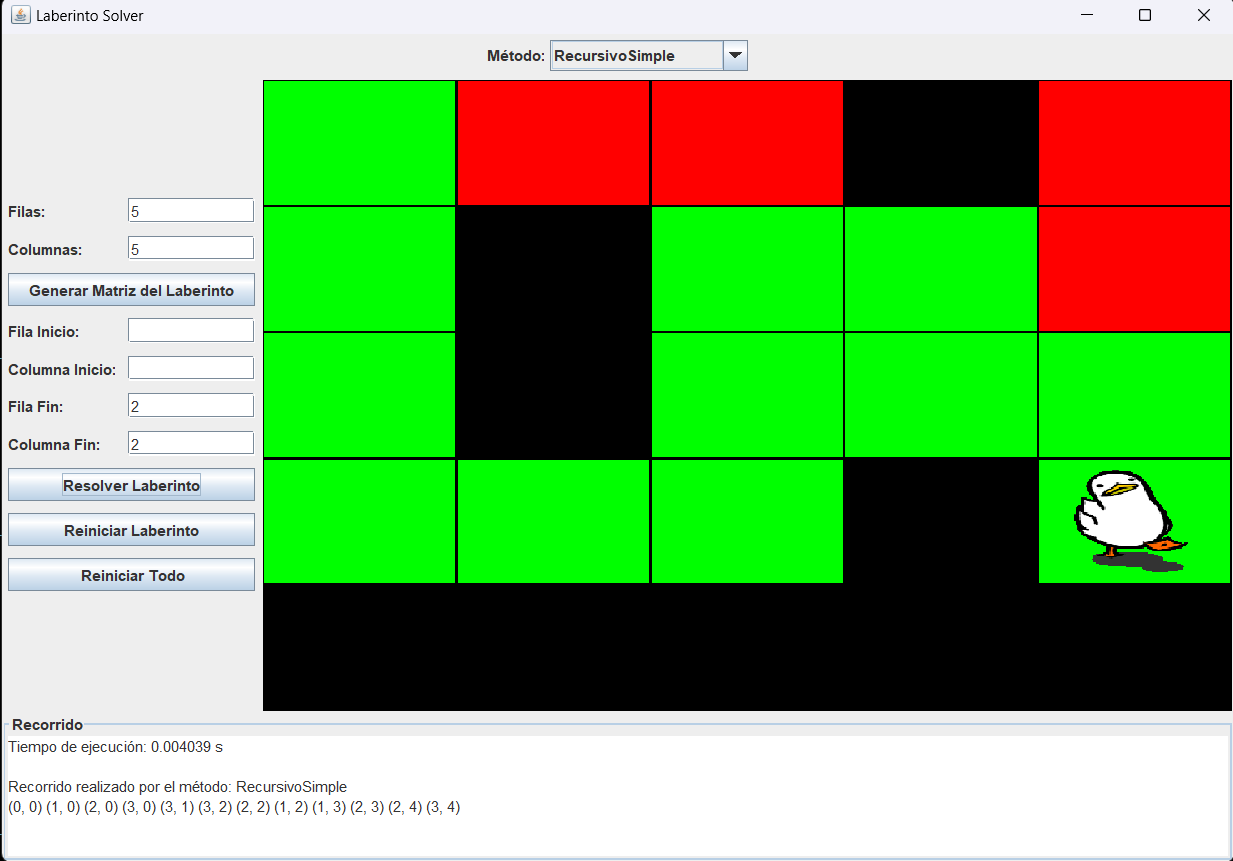
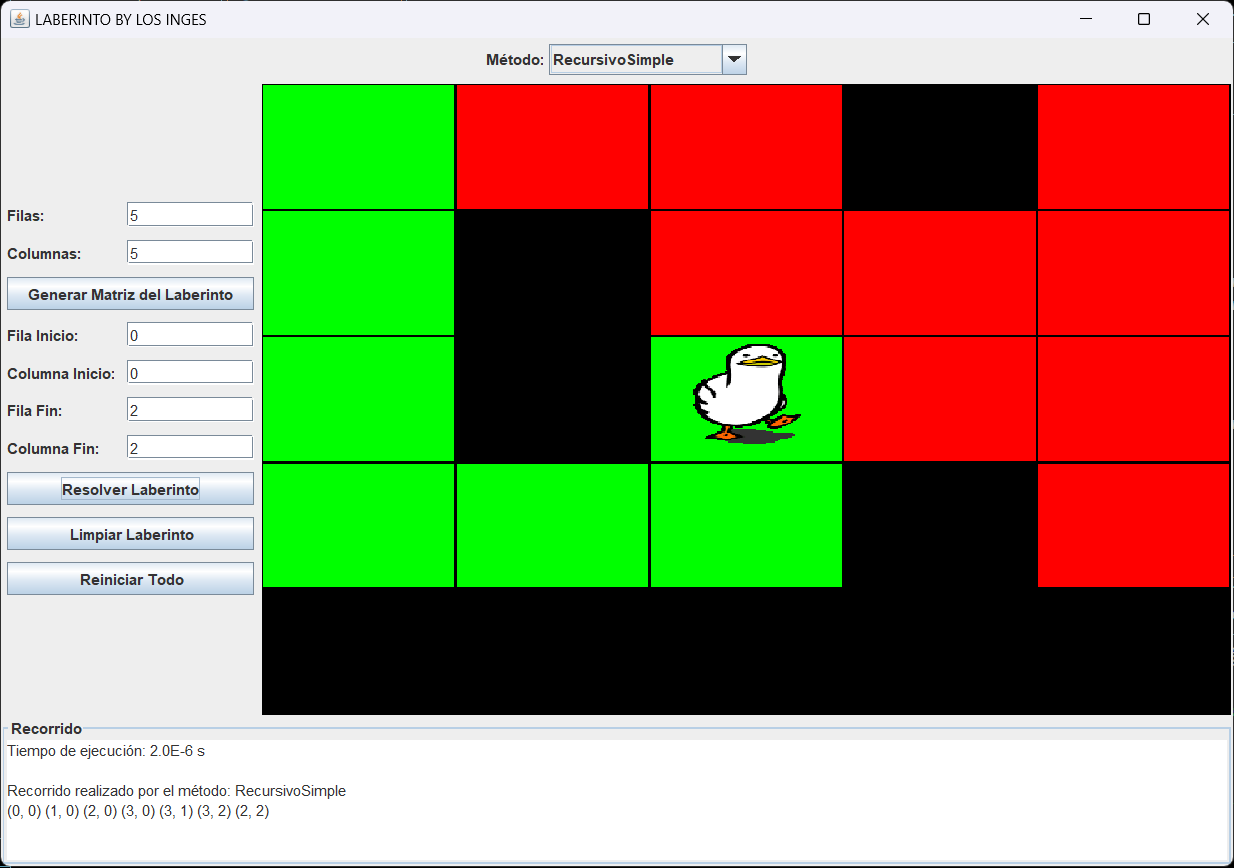
update

diff --git a/src/view/LaberintoUI.java b/src/view/LaberintoUI.java
@@ -53,7 +53,7 @@ public class LaberintoUI extends JFrame {
     }
 
     private void initUI() {
-        setTitle("Laberinto Solver");
+        setTitle("LABERINTO BY LOS INGES");
         setSize(1000, 700);
         setDefaultCloseOperation(JFrame.EXIT_ON_CLOSE);
         setLocationRelativeTo(null);
@@ -145,7 +145,7 @@ public class LaberintoUI extends JFrame {
         gbc.gridx = 0;
         gbc.gridy = 8;
         gbc.gridwidth = 2;
-        reiniciarLaberintoButton = new JButton("Reiniciar Laberinto");
+        reiniciarLaberintoButton = new JButton("Limpiar Laberinto");
         configPanel.add(reiniciarLaberintoButton, gbc);
         reiniciarLaberintoButton.addActionListener(new ReiniciarLaberintoButtonListener());
 

diff --git a/README.md b/README.md
@@ -62,11 +62,11 @@ Cada integrante del equipo propuso diferentes criterios y enfoques para la imple
 
 ![Captura 1]
 ![alt text](image.png)
-*Aqui podemos ver nuesta interfaz grafica, en la cual podremos crear el laberinto, dar la posición inicial y final de nuestro punto/seccion para empezar, y que metodo a usar para completar nuestro laberinto, y por ultimo dar a los botones para empezar a resolverlo o resetear/borrar para empezar de nuevo*
+*Aqui podemos ver nuesta interfaz grafica, en la cual podremos crear el laberinto, dar la posición inicial y final de nuestro punto/seccion para empezar, y que metodo a usar para completar nuestro laberinto, y por ultimo dar a los botones para generar la matriz o para empezar a resolverlo o resetear/borrar para empezar de nuevo*
 
 ![Captura 2]
 ![alt text](image-1.png)
-*Aqui podremos ver como esta ya generado el laberinto y dando posiciones al punto inicial y final para luego usar algun metodo para resolver nuestro laberinto, por último dando clic a los recuadros podremos coloar los obstaculos en el laberinto para que nuestro punto inicial tenga que buscar otros lados para buscar la seccion final, tambien si no hubiera encontrado solucion te seldra un mensaje "ESTAS ATRAPADO"*
+*Aqui podremos ver como esta ya generado el laberinto y dando posiciones al punto inicial y final para luego usar algun metodo para resolver nuestro laberinto, por último dando clic a los recuadros podremos colocar los obstaculos en el laberinto para que nuestro punto inicial tenga que buscar otros lados para buscar la seccion final, tambien si no hubiera encontrado solucion te seldra un mensaje "ESTAS ATRAPADO"*
 
 ![Captura 3]
 ![alt text](image-2.png)
